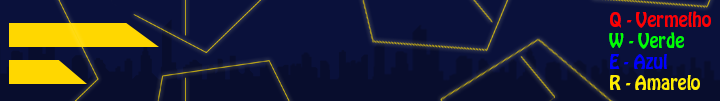
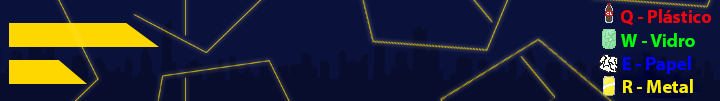
Alterado imagens dos lixos, ao invés de lixos coloridos cada tipo de lixo tem um objeto condizente

Changed region(s): [[0.825, 0.0297, 1.0, 0.505], [0.825, 0.5347, 0.9778, 0.9505]]

diff --git a/database/DatabaseConnection.java b/database/DatabaseConnection.java
@@ -1,6 +1,5 @@
 package database;
 
-import java.net.URL;
 import java.sql.Connection;
 import java.sql.DriverManager;
 import java.sql.PreparedStatement;
@@ -10,7 +9,7 @@ import java.util.ArrayList;
 import entities.Player;
 
 public class DatabaseConnection {
-	private final URL databaseFilePath =  this.getClass().getResource("db/GarbageEater.db");
+	private final String databaseFilePath =  this.getClass().getResource("db/GarbageEater.db").toString();
 	private final String url = "jdbc:sqlite::resource:" + databaseFilePath;
 	private Connection connection;
 	private boolean connected;
